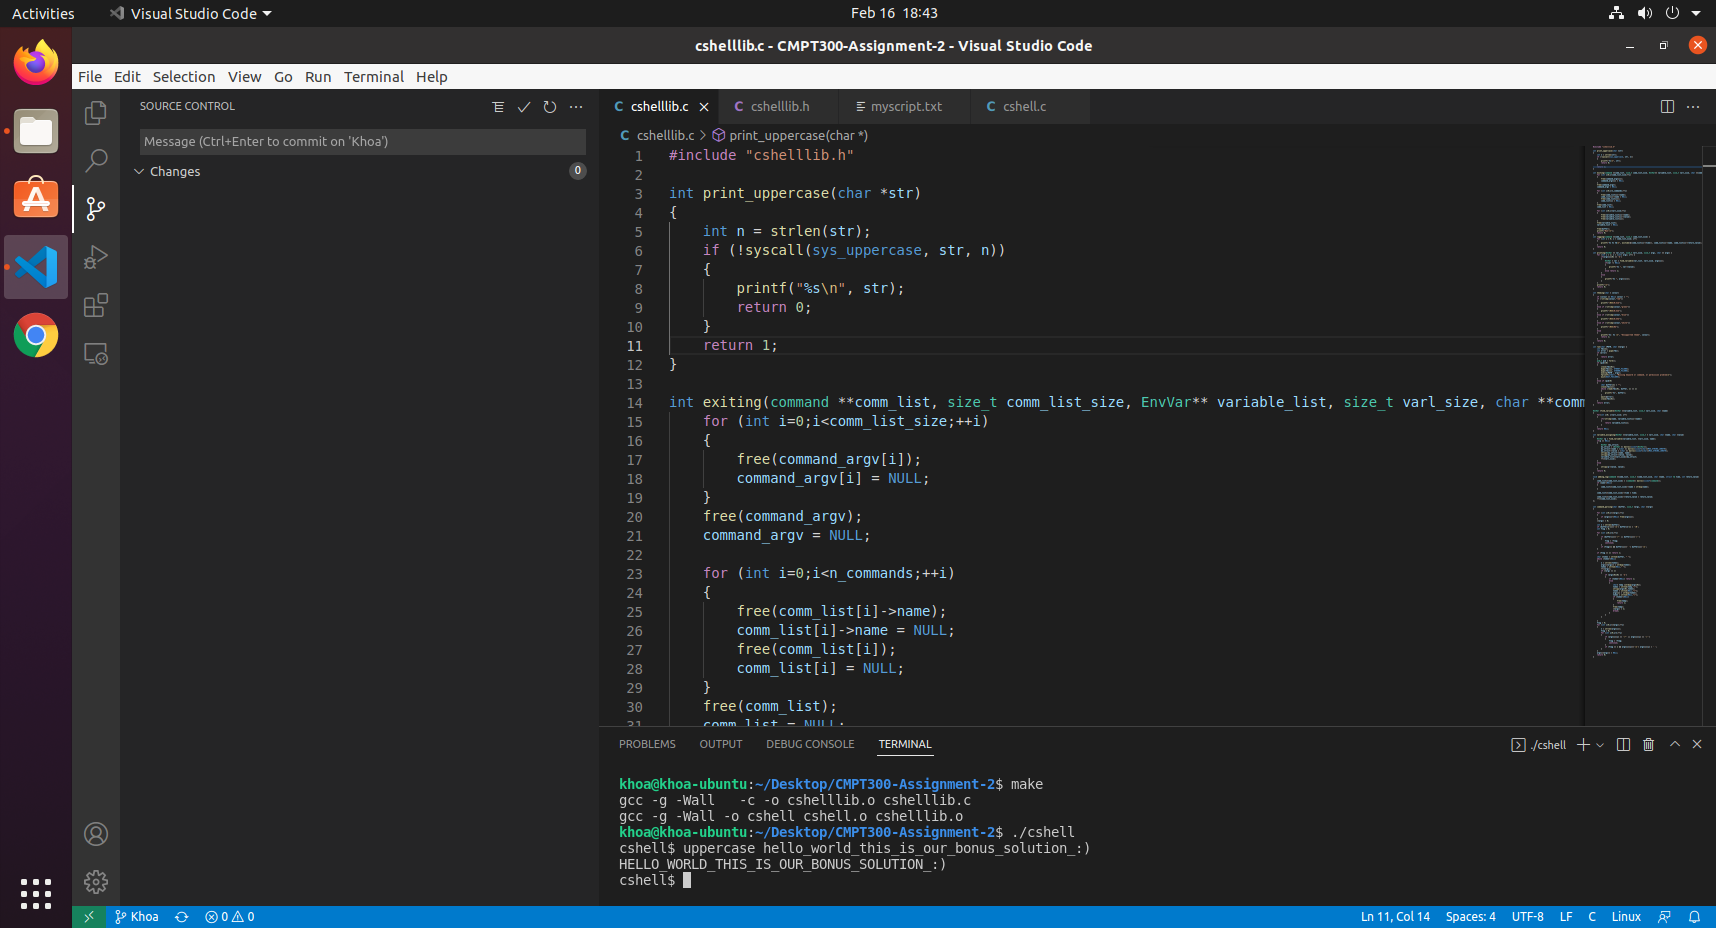
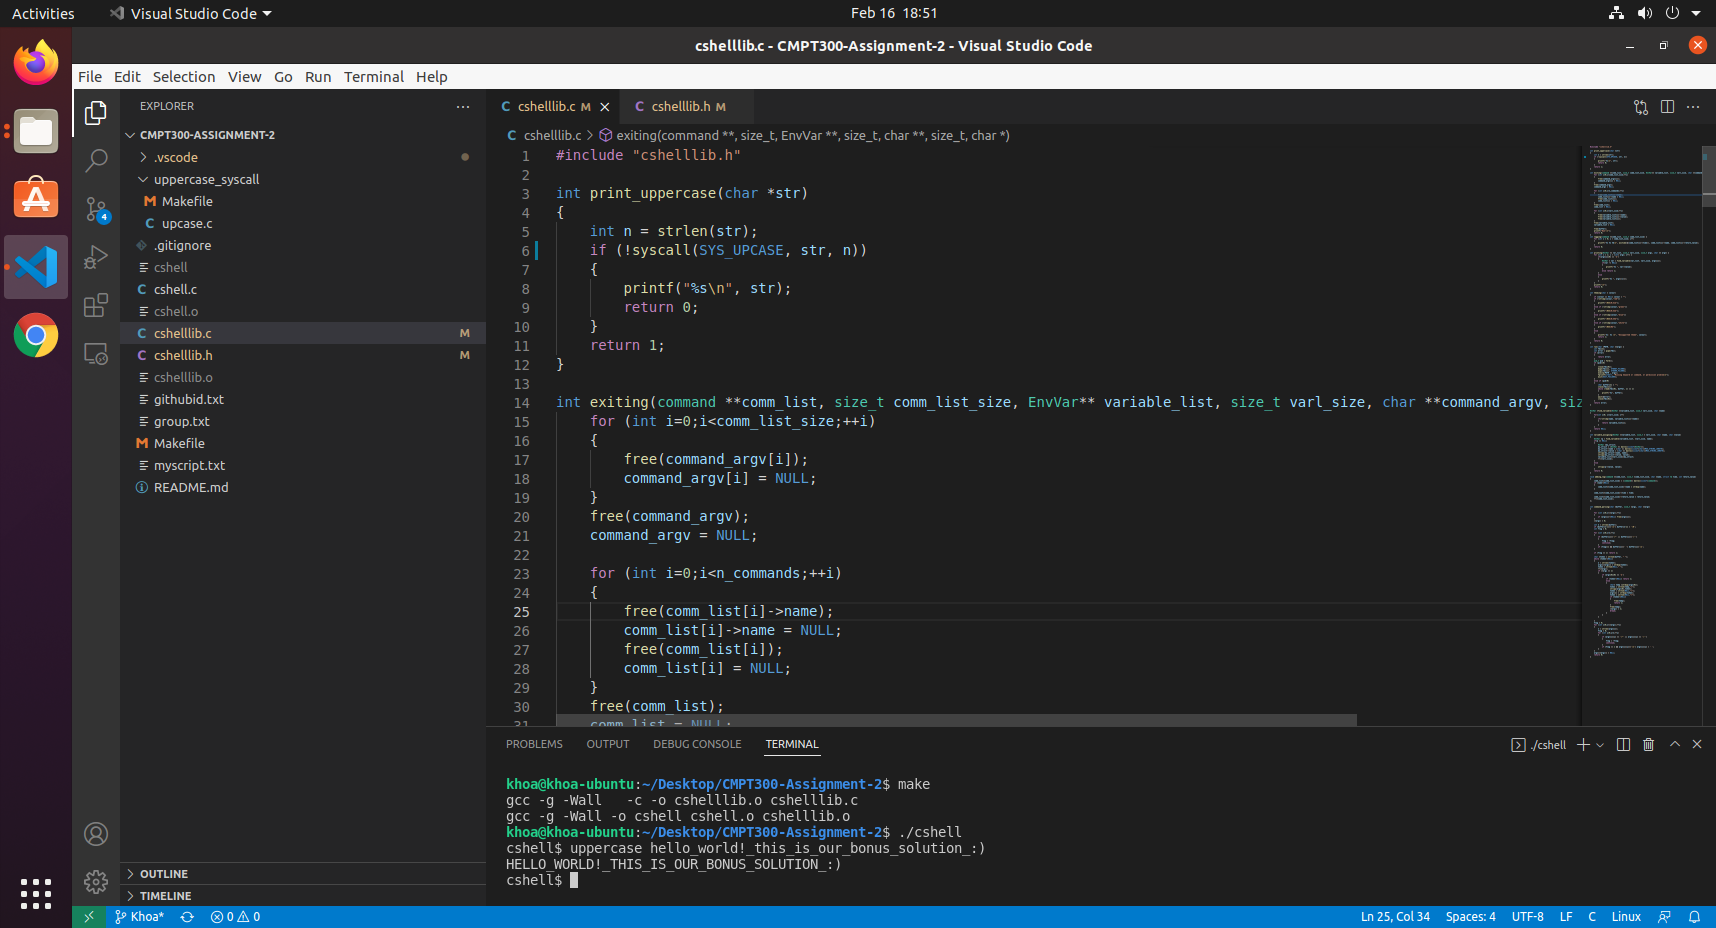
Change name to SYS_UPPERCASE

diff --git a/cshelllib.c b/cshelllib.c
@@ -3,7 +3,7 @@
 int print_uppercase(char *str)
 {
     int n = strlen(str);
-    if (!syscall(sys_uppercase, str, n))
+    if (!syscall(SYS_UPCASE, str, n))
     {
         printf("%s\n", str);
         return 0;

diff --git a/cshelllib.h b/cshelllib.h
@@ -13,7 +13,7 @@
 #define MAX_N_VARIABLE 50
 #define MAX_N_ARGUMENTS 50
 
-#define sys_uppercase 440
+#define SYS_UPCASE 440
 
 typedef struct command
 {
